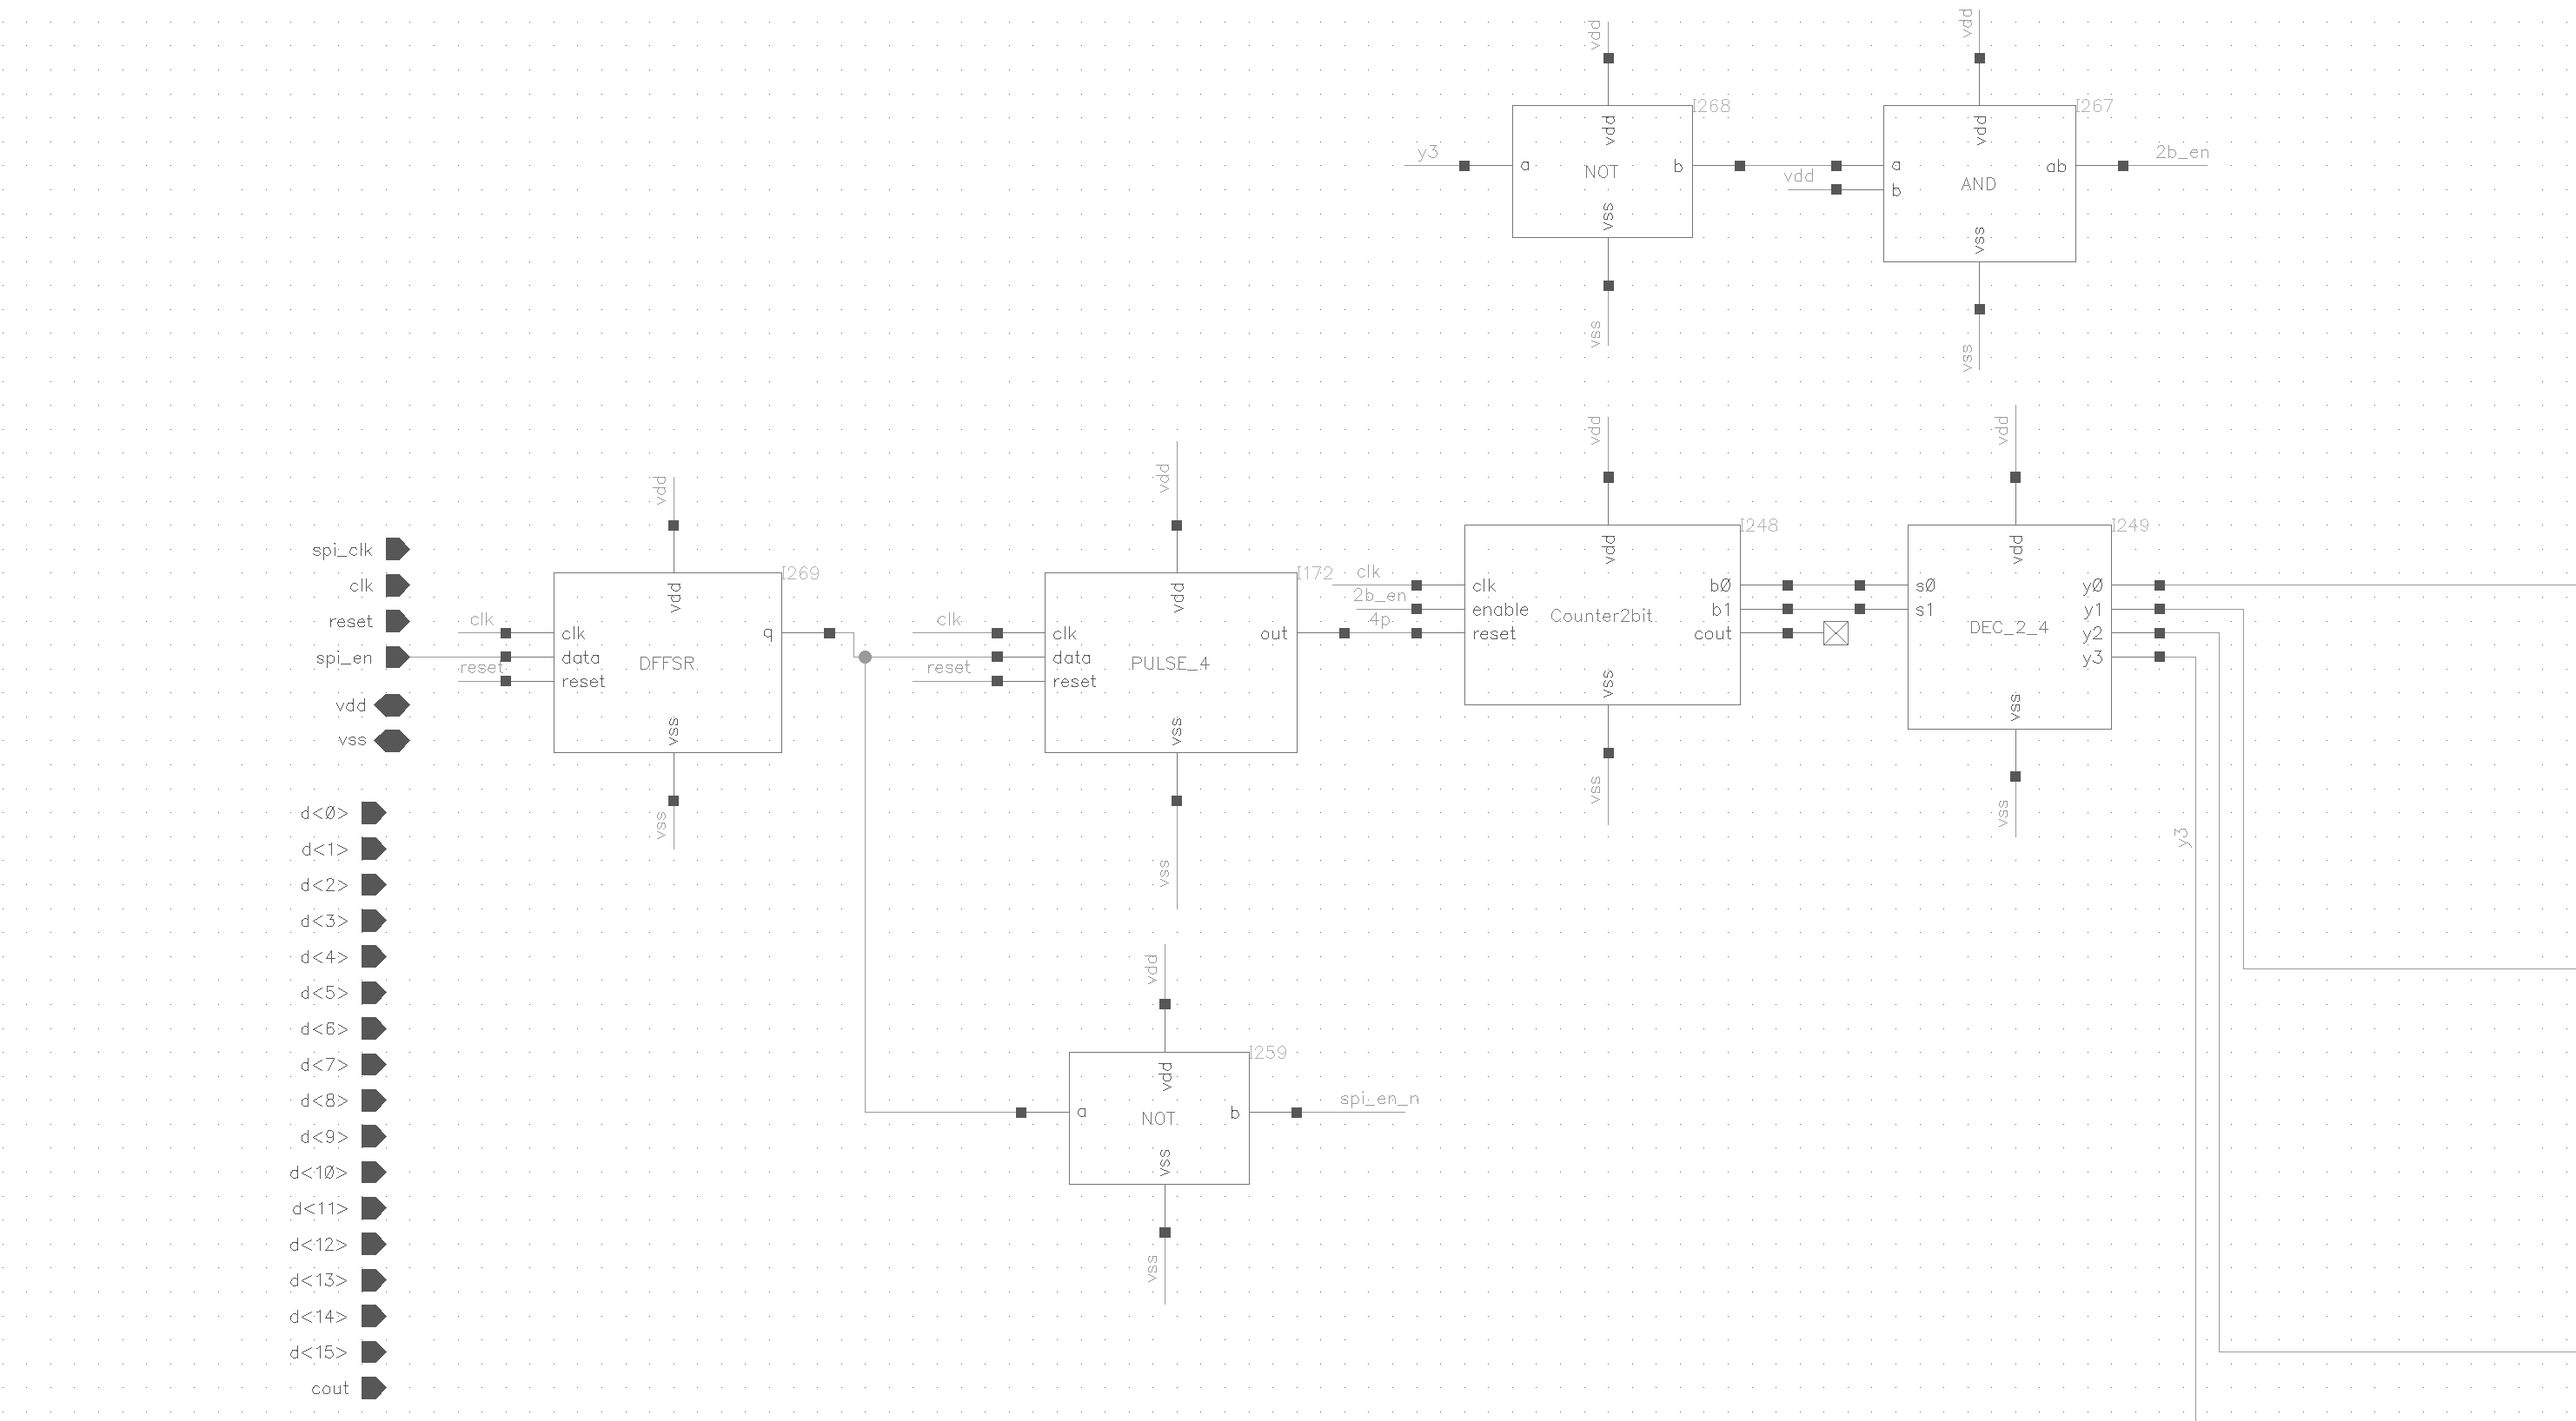
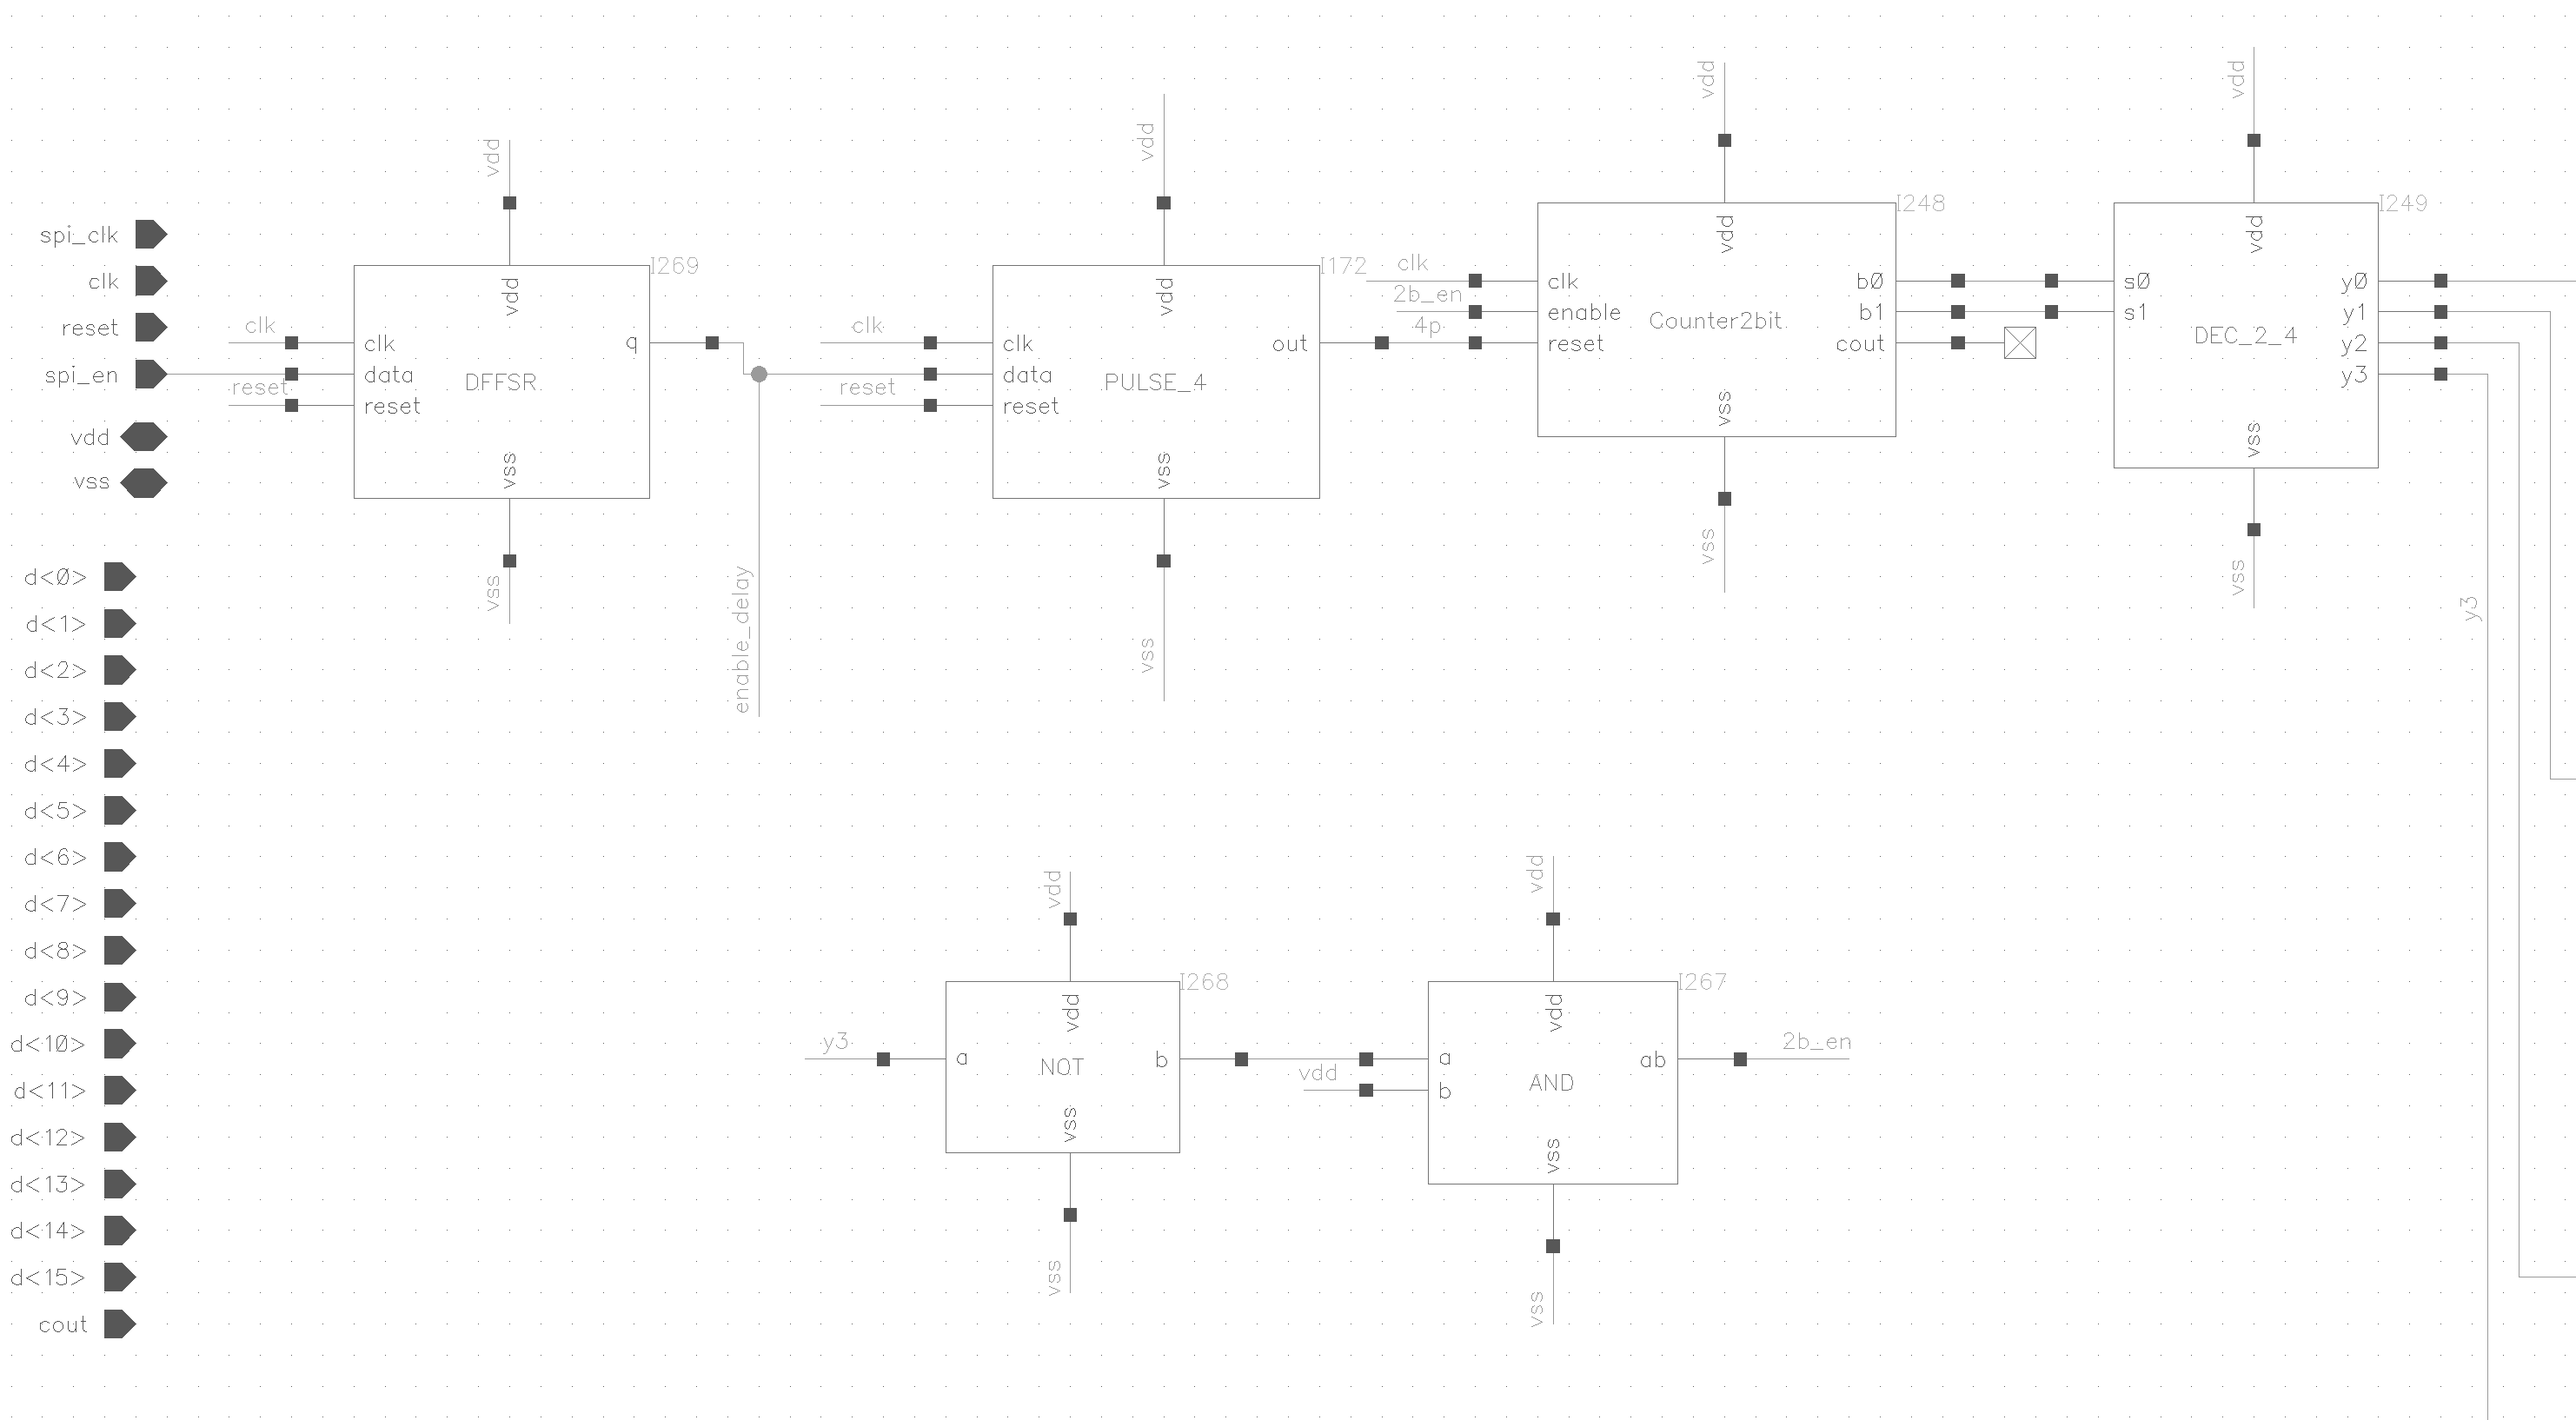
Updated pictures and wrote on spi out.

diff --git a/dokumentation/high_level_design_report/tex/spi_out.tex b/dokumentation/high_level_design_report/tex/spi_out.tex
@@ -1,14 +1,19 @@
+\newpage
 \section{SPI out}
-This unit is responsible for correct output of the data from the adder.
+This module is responsible for correct output of the data from the adder.
 
 
 
 
 \subsection{Shift register}
-The output consist of four sums, each containing 16 sum bits plus one carry output bit. This makes a total of 68 bits. To simply implement this we use a 68 bit shift register. Each cell in the register contains one D flip-flop and one multiplexer. The multiplexer is used to switch between shifting and parallel load of the D flip-flop. In \ref{shift_reg} the schematic of a cell can be seen. 
+The output consist of four sums, each containing 16 sum bits plus one carry output bit. This makes a total of 68 bits. To implement this we use a 68 bit shift register where each cell in the register contains one D flip-flop and one multiplexer. The multiplexer is used to switch between shifting and parallel load of the D flip-flop. In figure \ref{mux_dff} the schematic of a cell can be seen. 
 
-\begin{figure}
-
+\begin{figure}[H]
+\centering
+\captionsetup{justification=centering}
+\includegraphics[scale=0.2]{../figures/mux_dffsr.png}
+\caption{Shift register cell}
+\label{mux_dff}
 \end{figure}
 
 
@@ -16,11 +21,24 @@ The output consist of four sums, each containing 16 sum bits plus one carry outp
 
 \subsection{Control logic}
 The control logic is needed to load the long shift register with the correct data. \\
-As the adder is built in such a way that it adds all the four numbers as fast as it can after the spi enable signal goes high, the output from one addition will only be available for one clock cycle. This means that we need to quickly grab the data and put it in the correct place.\\ 
-Our implementation uses a pulse generator, a 2-bit counter, a decoder to select what 17-bit part of the shift register to load, and some multiplexers to select if to clock the register on the spi clock or on the enable signals from the decoder. The pulse generator is triggered by the spi enable signal and creates a pulse that is four system clock cycles long. This to only increment the counter four times, and also to clip the pulse from the last decoder output. As can be seen in \ref{•} the last output of the decoder is also feeded back to the enable of the counter. This prevents the possible spike that is created when the counter starting over. \\
+As the adder is built in such a way that it executes all the four additions as fast as it can after the spi enable signal goes high, the output from one addition will only be available for one system clock cycle. This means that we need to quickly grab the data and put it in the correct place.\\ 
+Our implementation uses a pulse generator, a 2-bit counter, a decoder to select what 17-bit part of the shift register to load, and some multiplexers to select if to clock the register on the spi clock or on the enable signals from the decoder. The pulse generator is triggered by the spi enable signal and creates a pulse that is four system clock cycles long. This to only allow the counter to increment four times, and also to clip the pulse from the last decoder output. As can be seen in \ref{spi_out1} the last output of the decoder is also feeded back to the enable of the counter through an inverter. This prevents a possible glitch that is generated when the counter starts over. The glitch would reload the section of the shift register containing the first sum. \\
 
-\begin{figure}
-
+\begin{figure}[H]
+\centering
+\captionsetup{justification=centering}
+\includegraphics[scale=0.2]{../figures/spi_out1.png}
+\caption{Control logic for spi output, first half}
+\label{spi_out1}
 \end{figure}
 
+\begin{figure}[H]
+\centering
+\captionsetup{justification=centering}
+\includegraphics[scale=0.2]{../figures/spi_out2.png}
+\caption{Control logic for spi output, second half}
+\label{spi_out2}
+\end{figure}
 
+\subsection{Protocol}
+This unit outputs the data with most significant bit first, in this case the carry output. To not use 

diff --git a/dokumentation/high_level_design_report/high_level_design_report.tex b/dokumentation/high_level_design_report/high_level_design_report.tex
@@ -64,4 +64,6 @@
 
 \input{tex/block_level_description.tex}
 
+\input{tex/spi_out.tex}
+
 \end{document}
